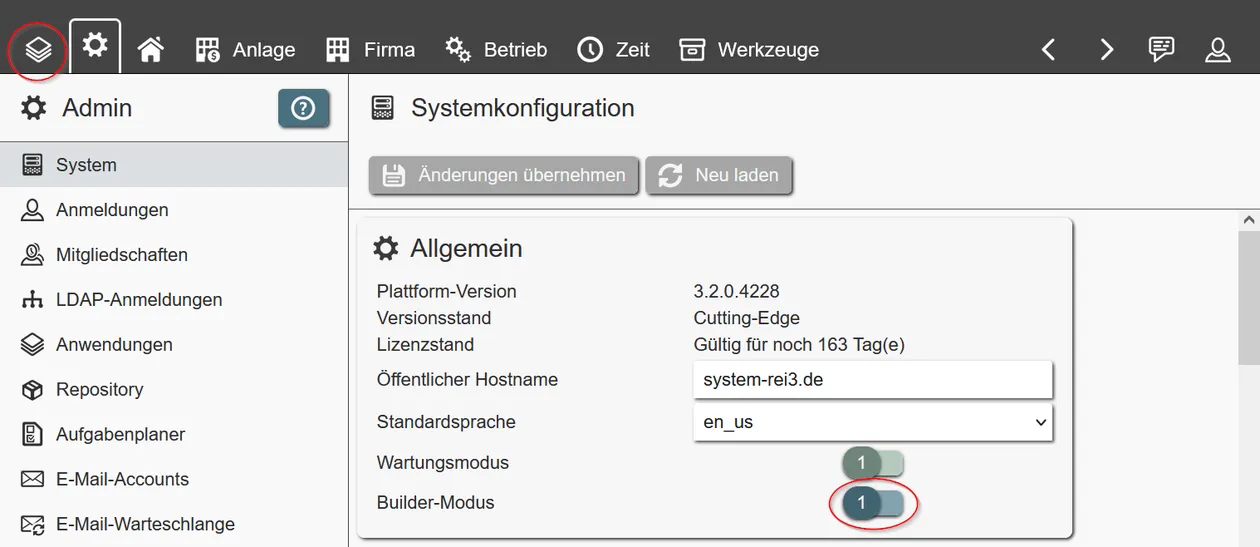
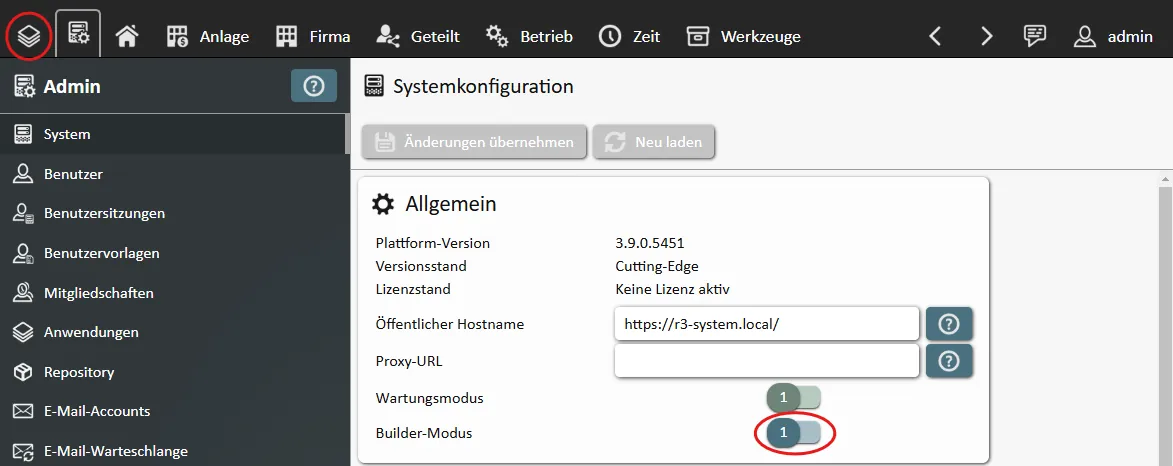
Updated admin docs

diff --git a/www/docs/de_de_admin.html b/www/docs/de_de_admin.html
@@ -1,4 +1,4 @@
-<p><em>Aktualisiert 2024-03-04</em></p>
+<p><em>Aktualisiert 2024-10-29</em></p>
 <h1 id="inhaltsverzeichnis">Inhaltsverzeichnis</h1>
 <ol type="1">
 <li><a href="#einführung">Einführung</a></li>
@@ -31,7 +31,6 @@
 <li><a href="#builder-modus">Builder-Modus</a></li>
 <li><a href="#authentifizierung-und-autorisierung">Authentifizierung und Autorisierung</a></li>
 <li><a href="#authentifizierung-und-autorisierung-über-ldap">Authentifizierung und Autorisierung über LDAP</a></li>
-<li><a href="#anmeldungen-mit-datensätzen-verbinden">Anmeldungen mit Datensätzen verbinden</a></li>
 </ol></li>
 <li><a href="#anwendungen-verwalten">Anwendungen verwalten</a></li>
 <li><a href="#sicherung-und-wiederherstellung">Sicherung und Wiederherstellung</a>
@@ -205,28 +204,22 @@
 <p><img src="de_de_admin_pics/builder_mode.webp" alt="Builder-Modus" /></p>
 <p>Der Builder ist ein umfangreiches Werkzeug. Alle REI3-Anwendungen werden ausschließlich über den Builder erstellt und geändert. Bitte beachten Sie, dass das Ändern von Anwendungen dauerhafte Konsequenzen bis hin zum Datenverlust hat. Versuchen Sie nicht, den Builder in einer produktiven Instanz zu verwenden. Zum Testen oder Entwickeln von Anwendungen sollte eine separate Instanz verwendet werden. Die portable Version macht dies für Windows-Endgeräte einfach. Unter Linux dient ein separater Anwendungsdienst, der auf eine separate Datenbank zugreift, demselben Zweck.</p>
 <h2 id="authentifizierung-und-autorisierung">Authentifizierung und Autorisierung</h2>
-<p>Um Benutzern den Zugang zum System zu ermöglichen, müssen individuelle Anmeldungen von einem REI3-Administrator erstellt oder von einem <a href="#authentifizierung-und-autorisierung-über-ldap">Verzeichnisdienst</a> importiert werden. Anmeldenamen können alles sein, von Namen über Mitarbeiter-IDs bis hin zu E-Mail-Adressen - sie müssen nur innerhalb einer REI3-Instanz eindeutig sein.</p>
-<p><img src="de_de_admin_pics/authentication.webp" alt="Anmeldungen" /></p>
-<p>Um auf eine Anwendung oder Daten zugreifen zu können, müssen den Anmeldungen Rollen zugewiesen werden. Dies kann durch einen REI3-Administrator manuell geschehen oder sie können automatisch anhand von Gruppenmitgliedschaften innerhalb eines <a href="#authentifizierung-und-autorisierung-über-ldap">Verzeichnisdienstes</a> zugewiesen werden. Rollenberechtigungen sind kumulativ - je mehr Rollen ein Benutzer hat, desto umfangreicher ist der Zugriff.</p>
+<p>Um Benutzern den Zugang zum System zu ermöglichen, müssen diese von einem REI3-Administrator erstellt oder von einem <a href="#authentifizierung-und-autorisierung-über-ldap">Verzeichnisdienst</a> importiert werden. Benutzernamen können alles sein, von persönlichen Namen über Mitarbeiter-IDs bis hin zu E-Mail-Adressen - sie müssen nur eindeutig innerhalb einer REI3-Instanz sein.</p>
+<p>Um auf eine Anwendung oder Daten zugreifen zu können, müssen Benutzern Rollen zugewiesen werden. Dies kann durch einen REI3-Administrator manuell geschehen oder sie können automatisch anhand von Gruppenmitgliedschaften innerhalb eines <a href="#authentifizierung-und-autorisierung-über-ldap">Verzeichnisdienstes</a> zugewiesen werden. Rollenberechtigungen sind kumulativ - je mehr Rollen ein Benutzer hat, desto umfangreicher ist der Zugriff.</p>
 <p>Um die Kontosicherheit zu erhöhen, können REI3-Administratoren in der Admin-Oberfläche Optionen für die Passwortkomplexität auswählen. Darüber hinaus steht den Benutzern MFA (Multi-Faktor-Authentifizierung) in Form von TOTP (zeitbasierte Einmal-Passwörter) zur Verfügung, die von den Administratoren zurückgesetzt werden können. MFA kann auf mehreren Geräten eingerichtet werden und wird von den meisten Authenticator-Apps unterstützt (alles, was TOTP unterstützt).</p>
 <h2 id="authentifizierung-und-autorisierung-über-ldap">Authentifizierung und Autorisierung über LDAP</h2>
 <p>REI3 hostet ein internes Authentifizierungs-Backend. Zur Integration in vorhandene Infrastrukturen kann REI3 LDAP-Dienste nutzen, um folgendes anzubieten:</p>
 <ul>
-<li>LDAP-Authentifizierung: Benutzerkonten werden regelmäßig von LDAP importiert, um lokale Anmeldungen zu erstellen. Anmeldedaten werden dann live gegen das LDAP geprüft.
+<li>LDAP-Authentifizierung: Benutzerkonten werden regelmäßig von LDAP importiert. Anmeldedaten werden dann live während des Anmeldeversuches gegen das LDAP geprüft.
 <ul>
-<li>Bei der Verwendung mehrfacher LDAP-Verbindungen (oder beim Mischen lokaler mit Anmeldungen von LDAP) können duplikate Anmeldenamen existieren. LDAP-Verbindungen können konfiguriert werden, um E-Mail-Adressen oder andere Attribute für Anmeldenamen zu nutzen.</li>
-<li>Nur Microsoft-AD: Wenn ein Benutzerkonto deaktiviert wird, werden Sitzungen dieser Anmeldung während des nächsten LDAP-Imports automatisch geschlossen.</li>
+<li>Bei der Verwendung mehrfacher LDAP-Verbindungen (oder beim Mischen lokaler Benutzer mit Benutzern aus LDAP) können duplikate Benutzernamen existieren. LDAP-Verbindungen können konfiguriert werden, um E-Mail-Adressen oder andere Attribute für Benutzernamen zu nutzen.</li>
+<li>Nur Microsoft-AD: Wenn ein Benutzerkonto deaktiviert wird, werden Sitzungen dieses Benutzers während des nächsten LDAP-Imports automatisch geschlossen.</li>
 </ul></li>
-<li>LDAP-Autorisierung: Durch das Auslesen von Gruppenmitgliedschaften können Anwendungsrollen automatisch Anmeldungen zugewiesen werden.
+<li>LDAP-Autorisierung: Durch das Auslesen von Gruppenmitgliedschaften können Anwendungsrollen automatisch Benutzern zugewiesen werden.
 <ul>
 <li>Nur Microsoft-AD: Verschachtelte Gruppenmitgliedschaften werden automatisch aufgelöst.</li>
 </ul></li>
 </ul>
-<h2 id="anmeldungen-mit-datensätzen-verbinden">Anmeldungen mit Datensätzen verbinden</h2>
-<p>Um Workflows und andere Funktionen mit Bezug zum aktuellen Benutzer zu ermöglichen, können Anmeldungen mit Datensätzen verbunden werden. Ein Beispiel ist die Anwendung "Organisationen", die Anmeldungen mit Unternehmenskontakten verbindet. Mit dieser Verbindung können Anwendungen die Organisationsdetails des entsprechenden Firmenkontakts nutzen, um Kontaktinformationen abzurufen, Arbeit zuzuweisen, Zeit zu erfassen, Projekte zu verwalten usw.</p>
-<p><img src="de_de_admin_pics/login_form.webp" alt="Anmeldungen mit Datensätzen verbinden" /></p>
-<p>Die Anzahl der Anwendungen oder Datensätze, die mit einer Anmeldung verbunden werden können, ist nicht begrenzt. Anmeldungen können auch mit anderen Entitäten wie Kunden, Anfragern usw. verbunden werden.</p>
-<p>Wenn mindestens eine Anwendung installiert ist, welche eine Verknüpfung von Datensätzen mit Anmeldungen ermöglicht, können REI3-Administratoren in der Verwaltungsoberfläche für Anmeldungen neue Datensätze erstellen oder bestehende zuweisen.</p>
 <h1 id="anwendungen-verwalten">Anwendungen verwalten</h1>
 <p>Um REI3 nutzen zu können, müssen Anwendungen installiert werden. Um Anwendungen zu verwalten, muss zuerst der Wartungsmodus aktiviert werden.</p>
 <p>Anwendungen werden über die Adminoberfläche installiert. Sie können aus mehreren Quellen abgerufen werden:</p>
@@ -259,7 +252,7 @@
 <p>Für vollständige Sicherungen empfehlen wir die Verwendung interner PostgreSQL-Werkzeuge wie <code>pg_dump</code> zum Sichern und<code> pg_restore</code> zum Wiederherstellen der Datenbank. Beispiele:</p>
 <ul>
 <li>Um in ein Zielverzeichnis zu sichern: pg_dump -h HOSTNAME -p 5432 -U USERNAME -Fd -f TARGETDIR</li>
-<li>Um aus einem Verzeichnis wiederherzustellen: pg_restore -h HOSTNAME -p 5432 -U USERNAME -d TARGETDBNAME SOURCEDIR</li>
+<li>Um aus einem Verzeichnis wiederherzustellen: pg_restore -h HOSTNAME -p 5432 --no-owner -U USERNAME -d TARGETDBNAME SOURCEDIR</li>
 </ul>
 <p>Empfehlungen:</p>
 <ul>
@@ -290,7 +283,7 @@
 </ul>
 <p>Die Einrichtung des Clusters selbst ist sehr einfach:</p>
 <ol type="1">
-<li>Der bereits laufende REI3-Server ist standardmäßig bereits Teil eines Ein-Server-Clusters, mit sich selbst als Clustermaster. Hier muss nichts weiter getan werden.</li>
+<li>Der erste REI3-Server ist standardmäßig bereits Teil eines Ein-Server-Clusters, mit sich selbst als Clustermaster. Hier muss nichts weiter getan werden.</li>
 <li>Um weitere Serverknoten hinzuzufügen, installieren Sie REI3 auf anderen Servern und verwenden Sie die gleichen Datenbank- und Dateipfadeinstellungen in der REI3-Konfigurationsdatei <code>config.json</code>.
 <ul>
 <li>Die Dateipfade für den gesamten Cluster müssen auf denselben Speicherort verweisen - normalerweise eignen sich Netzwerkfreigaben gut für diese Anforderung.</li>

diff --git a/www/docs/en_us_admin.html b/www/docs/en_us_admin.html
@@ -1,4 +1,4 @@
-<p><em>Updated 2024-03-04</em></p>
+<p><em>Updated 2024-10-29</em></p>
 <h1 id="table-of-contents">Table of contents</h1>
 <ol type="1">
 <li><a href="#introduction">Introduction</a></li>
@@ -31,7 +31,6 @@
 <li><a href="#builder-mode">Builder mode</a></li>
 <li><a href="#authentication-and-authorization">Authentication and authorization</a></li>
 <li><a href="#authentication-and-authorization-via-ldap">Authentication and authorization via LDAP</a></li>
-<li><a href="#connecting-logins-to-data-sets">Connecting logins to data sets</a></li>
 </ol></li>
 <li><a href="#manage-applications">Manage applications</a></li>
 <li><a href="#backup-and-recovery">Backup and recovery</a>
@@ -55,7 +54,7 @@
 <tr class="header">
 <th></th>
 <th style="text-align: center;">Dedicated</th>
-<th style="text-align: center;">Standalone</th>
+<th style="text-align: center;">Stand-alone</th>
 <th style="text-align: center;">Portable</th>
 <th style="text-align: center;">Docker</th>
 </tr>
@@ -206,28 +205,22 @@
 <p><img src="en_us_admin_pics/builder_mode.webp" alt="Builder mode" /></p>
 <p>Please be aware that changing applications has permanent consequences up to and including data loss. Do not attempt to use the Builder in any productive instance. For testing or developing applications, a separated instance should be used. The portable version makes this easy on Windows clients. On Linux a separated application service, accessing a separate database, serves the same purpose.</p>
 <h2 id="authentication-and-authorization">Authentication and authorization</h2>
-<p>To let users access the system, individual logins must be created by an REI3 administrator or imported from a <a href="#authentication-and-authorization-via-ldap">directory service</a>. Login names can be anything from names to employee IDs to email addresses - they only need to be unique within a REI3 instance.</p>
-<p><img src="en_us_admin_pics/authentication.webp" alt="Logins" /></p>
-<p>To access any application or data, roles have to be assigned to logins. This can be done by an REI3 administrator manually, or they can be assigned automatically according to group memberships within a <a href="#authentication-and-authorization-via-ldap">directory service</a>. Role permissions are cumulative - the more roles a user has, the larger the access.</p>
+<p>To let users access the system, they must be created by an REI3 administrator or imported from a <a href="#authentication-and-authorization-via-ldap">directory service</a>. Usernames can be anything from personal names to employee IDs to email addresses - they only need to be unique within a REI3 instance.</p>
+<p>To access any application or data, roles have to be assigned to users. This can be done by an REI3 administrator manually, or they can be assigned automatically according to group memberships within a <a href="#authentication-and-authorization-via-ldap">directory service</a>. Role permissions are cumulative - the more roles a user has, the larger the access.</p>
 <p>To increase account security, REI3 administrators can choose password complexity options in the admin interface. Additionaly, MFA (multi-factor authentication) in the form of TOTP (time-based one-time-passwords) is available to users and can be reset by administrators. MFA can be setup on multiple devices and is supported by most authenticator apps (anything that supports TOTP).</p>
 <h2 id="authentication-and-authorization-via-ldap">Authentication and authorization via LDAP</h2>
 <p>REI3 hosts its own, internal authentication backend. To integrate into existing infrastructures, REI3 can utilize LDAP services to offer:</p>
 <ul>
-<li>LDAP-Authentication: User accounts are imported from LDAP regularly to create local logins. Login credentials are then checked live against the LDAP.
+<li>LDAP-Authentication: Users are imported from LDAP regularly. Credentials are then checked live during login against the LDAP.
 <ul>
-<li>Using multiple LDAD connections (or mixing local with LDAP logins), can cause name duplications to occur. The LDAP connection can be configured to use email addresses or other attributes for login names instead.</li>
+<li>Using multiple LDAD connections (or mixing local with LDAP users), can cause username duplications to occur. The LDAP connection can be configured to use email addresses or other attributes for usernames instead.</li>
 <li>Microsoft AD only: When a user account is disabled, active sessions are automatically closed during the next LDAP import.</li>
 </ul></li>
-<li>LDAP-Authorization: By reading group memberships, application roles can automatically be assigned to logins.
+<li>LDAP-Authorization: By reading group memberships, application roles can automatically be assigned to users.
 <ul>
 <li>Microsoft AD only: Nested group memberships are automatically resolved.</li>
 </ul></li>
 </ul>
-<h2 id="connecting-logins-to-data-sets">Connecting logins to data sets</h2>
-<p>To facilitate workflows and other features with relation to the current user, logins can be connected to data sets. One example is the application 'Organizations', which connects logins to company contacts. With this connection, applications can use organization details of the corresponding company contact to retrieve contact information, assign work, track time, manage projects and so on.</p>
-<p><img src="en_us_admin_pics/login_form.webp" alt="Connect logins to data sets" /></p>
-<p>There is no limit in the number of applications or data sets that can be connected to a login. Logins can also be connected to other entities like customers, requestors and so on.</p>
-<p>If at least one app that offers connecting data sets to logins is installed, REI3 administrators can create new or assign existing data sets in the admin interface for logins.</p>
 <h1 id="manage-applications">Manage applications</h1>
 <p>To get use out of REI3, applications need to be installed. To manage applications, the maintenance mode must be enabled first.</p>
 <p>Applications are installed via the admin user interface. They can be retrieved from multiple sources:</p>
@@ -260,7 +253,7 @@
 <p>For full backups, we recommend using internal PostgreSQL tools, like <code>pg_dump</code> to backup and <code>pg_restore</code> to recover the database. Examples:</p>
 <ul>
 <li>To backup to a directory: pg_dump -h HOSTNAME -p 5432 -U USERNAME -Fd -f TARGETDIR</li>
-<li>To recover from a directory: pg_restore -h HOSTNAME -p 5432 -U USERNAME -d TARGETDBNAME SOURCEDIR</li>
+<li>To recover from a directory: pg_restore -h HOSTNAME -p 5432 --no-owner -U USERNAME -d TARGETDBNAME SOURCEDIR</li>
 </ul>
 <p>Good practices:</p>
 <ul>
@@ -291,7 +284,7 @@
 </ul>
 <p>Setting up clustering itself is very simple:</p>
 <ol type="1">
-<li>The already running REI3 server is by default already part of a one-server cluster, with itself as the cluster master. Nothing needs to be done here.</li>
+<li>The first REI3 server is by default already part of a one-server cluster, with itself as the cluster master. Nothing needs to be done here.</li>
 <li>To add additional server nodes, install REI3 on other servers and use the same database and file path settings in the REI3 configuration file <code>config.json</code>.
 <ul>
 <li>The file paths for the entire cluster must point to the same storage location - usually networks shares work well for this requirement.</li>
